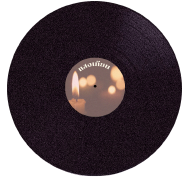
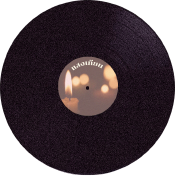
edit

Changed region(s): [[0.0, 0.0, 1.0, 0.9943], [0.3143, 0.3125, 0.6857, 0.6818], [0.7143, 0.142, 0.7714, 0.1705]]

diff --git a/about/style.css b/about/style.css
@@ -207,6 +207,7 @@ body {
     box-shadow: 0px 8px 16px 0px rgba(0,0,0,0.2);
     z-index: 1;
     left:84%;
+    font-family: 'Maitree', serif;
   }
   
   .dropdown-content a {
@@ -925,12 +926,12 @@ body {
     .te5 {
         position: absolute;
         /* width: 10%; */
-        left: 86%;
-        top: 14.5em;
+        left: 93%;
+        top: 15.5em;
         z-index: 30;
     }
     .inte5 {
-        width: 10em;
+        width: 8em;
     }
     .inte5:hover {
         transform: scale(1.3);
@@ -1127,15 +1128,15 @@ body{
     .tra {
         position: absolute;
         max-width: 25%;
-        margin-top: 75%;
-        margin-left: 56%;
+        margin-top: 83%;
+        margin-left: 64%;
         z-index: 29;
     }
     .prawat {
         position: absolute;
         max-width: 50%;
-        margin-top: 69%;
-        margin-left: 44%;
+        margin-top: 80%;
+        margin-left: 50%;
         z-index: 29;
     }
     
@@ -1145,12 +1146,12 @@ body{
         max-width: 74%;
         height: 200rem;
         margin-left: 45%;
-        margin-top: 88%;
+        margin-top: 98%;
         /* overflow: scroll; */
     }
     .p-font {
         font-size: 16px;
-        line-height: 44px;
+        line-height: 39px;
         color: #71512e;
     }
     
@@ -1170,12 +1171,12 @@ body{
     .te1 {
         position: absolute;
         /* width: 10%; */
-        left: 16%;
-        top: 16.5em;
+        left: 24%;
+        top: 21.5em;
         z-index: 30;
     }
     .inte1 {
-        width: 11em;
+        width: 9em;
     }
     
     .inte1:hover {
@@ -1186,8 +1187,8 @@ body{
     .te2 {
         position: absolute;
         /* width: 10%; */
-        left: 34.5%;
-        top: 18em;
+        left: 42.5%;
+        top: 23em;
         z-index: 30;
     }
     .inte2 {
@@ -1201,8 +1202,8 @@ body{
     .te3 {
         position: absolute;
         /* width: 10%; */
-        left: 62%;
-        top: 15em;
+        left: 67%;
+        top: 20em;
         z-index: 30;
     }
     .inte3 {
@@ -1217,11 +1218,11 @@ body{
         position: absolute;
         /* width: 10%; */
         left: 78%;
-        top: 12.5em;
+        top: 17.5em;
         z-index: 30;
     }
     .inte4 {
-        width: 12em;
+        width: 9em;
     }
     .inte4:hover {
         transform: scale(1.3);
@@ -1231,12 +1232,12 @@ body{
     .te5 {
         position: absolute;
         /* width: 10%; */
-        left: 99%;
-        top: 11.5em;
+        left: 107%;
+        top: 17.5em;
         z-index: 30;
     }
     .inte5 {
-        width: 9em;
+        width: 7em;
     }
     .inte5:hover {
         transform: scale(1.3);
@@ -1250,7 +1251,8 @@ body{
     }
     .nm {
         position: absolute;
-        margin-top: -1%;
+        margin-top:  -38%;
+
         left: 56%;
         width: 30%;
     }
@@ -1432,7 +1434,7 @@ body{
     .tra {
         position: absolute;
         max-width: 40%;
-        margin-top: 130%;
+        margin-top: 145%;
         margin-left: 96%;
         z-index: 29;
     }
@@ -1450,12 +1452,12 @@ body{
         max-width: 116%;
         height: 200rem;
         right: -77%;
-        margin-top: 163%;
+        margin-top: 168%;
         /* overflow: scroll; */
     }
     .p-font {
         font-size: 16px;
-        line-height: 44px;
+        line-height: 40px;
         color: #71512e;
     }
     
@@ -1753,20 +1755,20 @@ body{
         max-width: 116%;
         height: 200rem;
         right: -77%;
-        margin-top: 163%;
+        margin-top: 192%;
         /* overflow: scroll; */
     }
     .p-font {
         font-size: 16px;
-        line-height: 44px;
+        line-height: 40px;
         color: #71512e;
     }
     
     .footer {
         z-index: 999;
         position: absolute;
-        left: -49%;
-        width: 226%;
+        left: -54%;
+        width: 238%;
         background-color: #373B44;
         color: white;
         text-align: center;

diff --git a/Home/style/style.css b/Home/style/style.css
@@ -106,14 +106,14 @@ audio {
     top: 21%;
     left: -26%;
     opacity: 1.7;
-    animation: cloud-move 20s var(--fn, linear) infinite;
+    animation: cloud-move 30s var(--fn, linear) infinite;
     will-change: transform;
     z-index: -999;
 
 }
-@keyframes cloud-move {
-    from { transform: translateX(-110%) }
-    to { transform: translateX(110vw) }
+@keyframes clouds-move {
+    from { transform: translateX(110vw) }
+    to { transform: translateX(-110%) }
   }
 .rcloud {
     position: fixed;
@@ -121,14 +121,15 @@ audio {
     top: 21%;
     left: 38%;
     opacity: 2.7;
-    animation: clouds-move 20s var(--fn, linear) infinite;
+    animation: clouds-move 30s var(--fn, linear) infinite;
     will-change: transform;
     z-index: -999;
 }
-@keyframes clouds-move {
-    from { transform: translateX(110vw) }
-    to { transform: translateX(-110%) }
+@keyframes cloud-move {
+    from { transform: translateX(-110%) }
+    to { transform: translateX(110vw) }
   }
+
 
 @media only screen and (max-width: 1230px) {
     .rama9 {

diff --git a/infomationmusic/inf_music.html b/infomationmusic/inf_music.html
@@ -180,18 +180,7 @@
         $('.img__item').removeClass('active');
         $('.img__item#'+ infomation).addClass('active');
 
-        if(swiper.isEnd) {
-            $('.prev').removeClass('disabled');
-            $('.next').addClass('disabled');
-        } else {
-            $('.next').removeClass('disabled');
-        }
 
-        if(swiper.isBeginning) {
-            $('.prev').addClass('disabled');
-        } else {
-            $('.prev').removeClass('disabled');
-        }
     });
 
     $(".js-fav").on("click", function() {

diff --git a/music/music1.html b/music/music1.html
@@ -30,6 +30,7 @@
 <img class="music" id="player" src="./img/M1_1.png" alt="">
 <img class="music" id="needle" src="./img/Asset 6.png" alt="">
 <img class="music" id="record" src="./img/แสงเทียน.png" alt="">
+<img class="music" id="reflection" src="./img/reflection.png" alt="">
 
 <p>
 Click Record  Arm </br>To Turn record on/off.

diff --git a/Home/ss.css b/Home/ss.css
@@ -1,9 +1,13 @@
 @import url('https://fonts.googleapis.com/css?family=Trirong&display=swap');
+@import url('https://fonts.googleapis.com/css?family=Chonburi|Maitree&display=swap');
 body {
     background-color: #f8bdb8;
     margin: 0;
     padding: 0;
     overflow-x: hidden;
+}
+audio {
+    opacity: 0;
 }
 
 .header {

diff --git a/infomationmusic/inf_music.css b/infomationmusic/inf_music.css
@@ -132,9 +132,7 @@ img {
   outline: none;
   cursor: pointer;
 }
-.next.disabled, .prev.disabled {
-  cursor: not-allowed;
-}
+
 .next:focus, .prev:focus {
   outline: none;
 }

diff --git a/music/music1.css b/music/music1.css
@@ -32,6 +32,12 @@ body {
 
 
 }
+#reflection{
+    width: 24%;
+    left: -8%;
+    top: 0;
+    z-index: 20;
+}
 .dropdown {
   float: right;
   top:10%;
